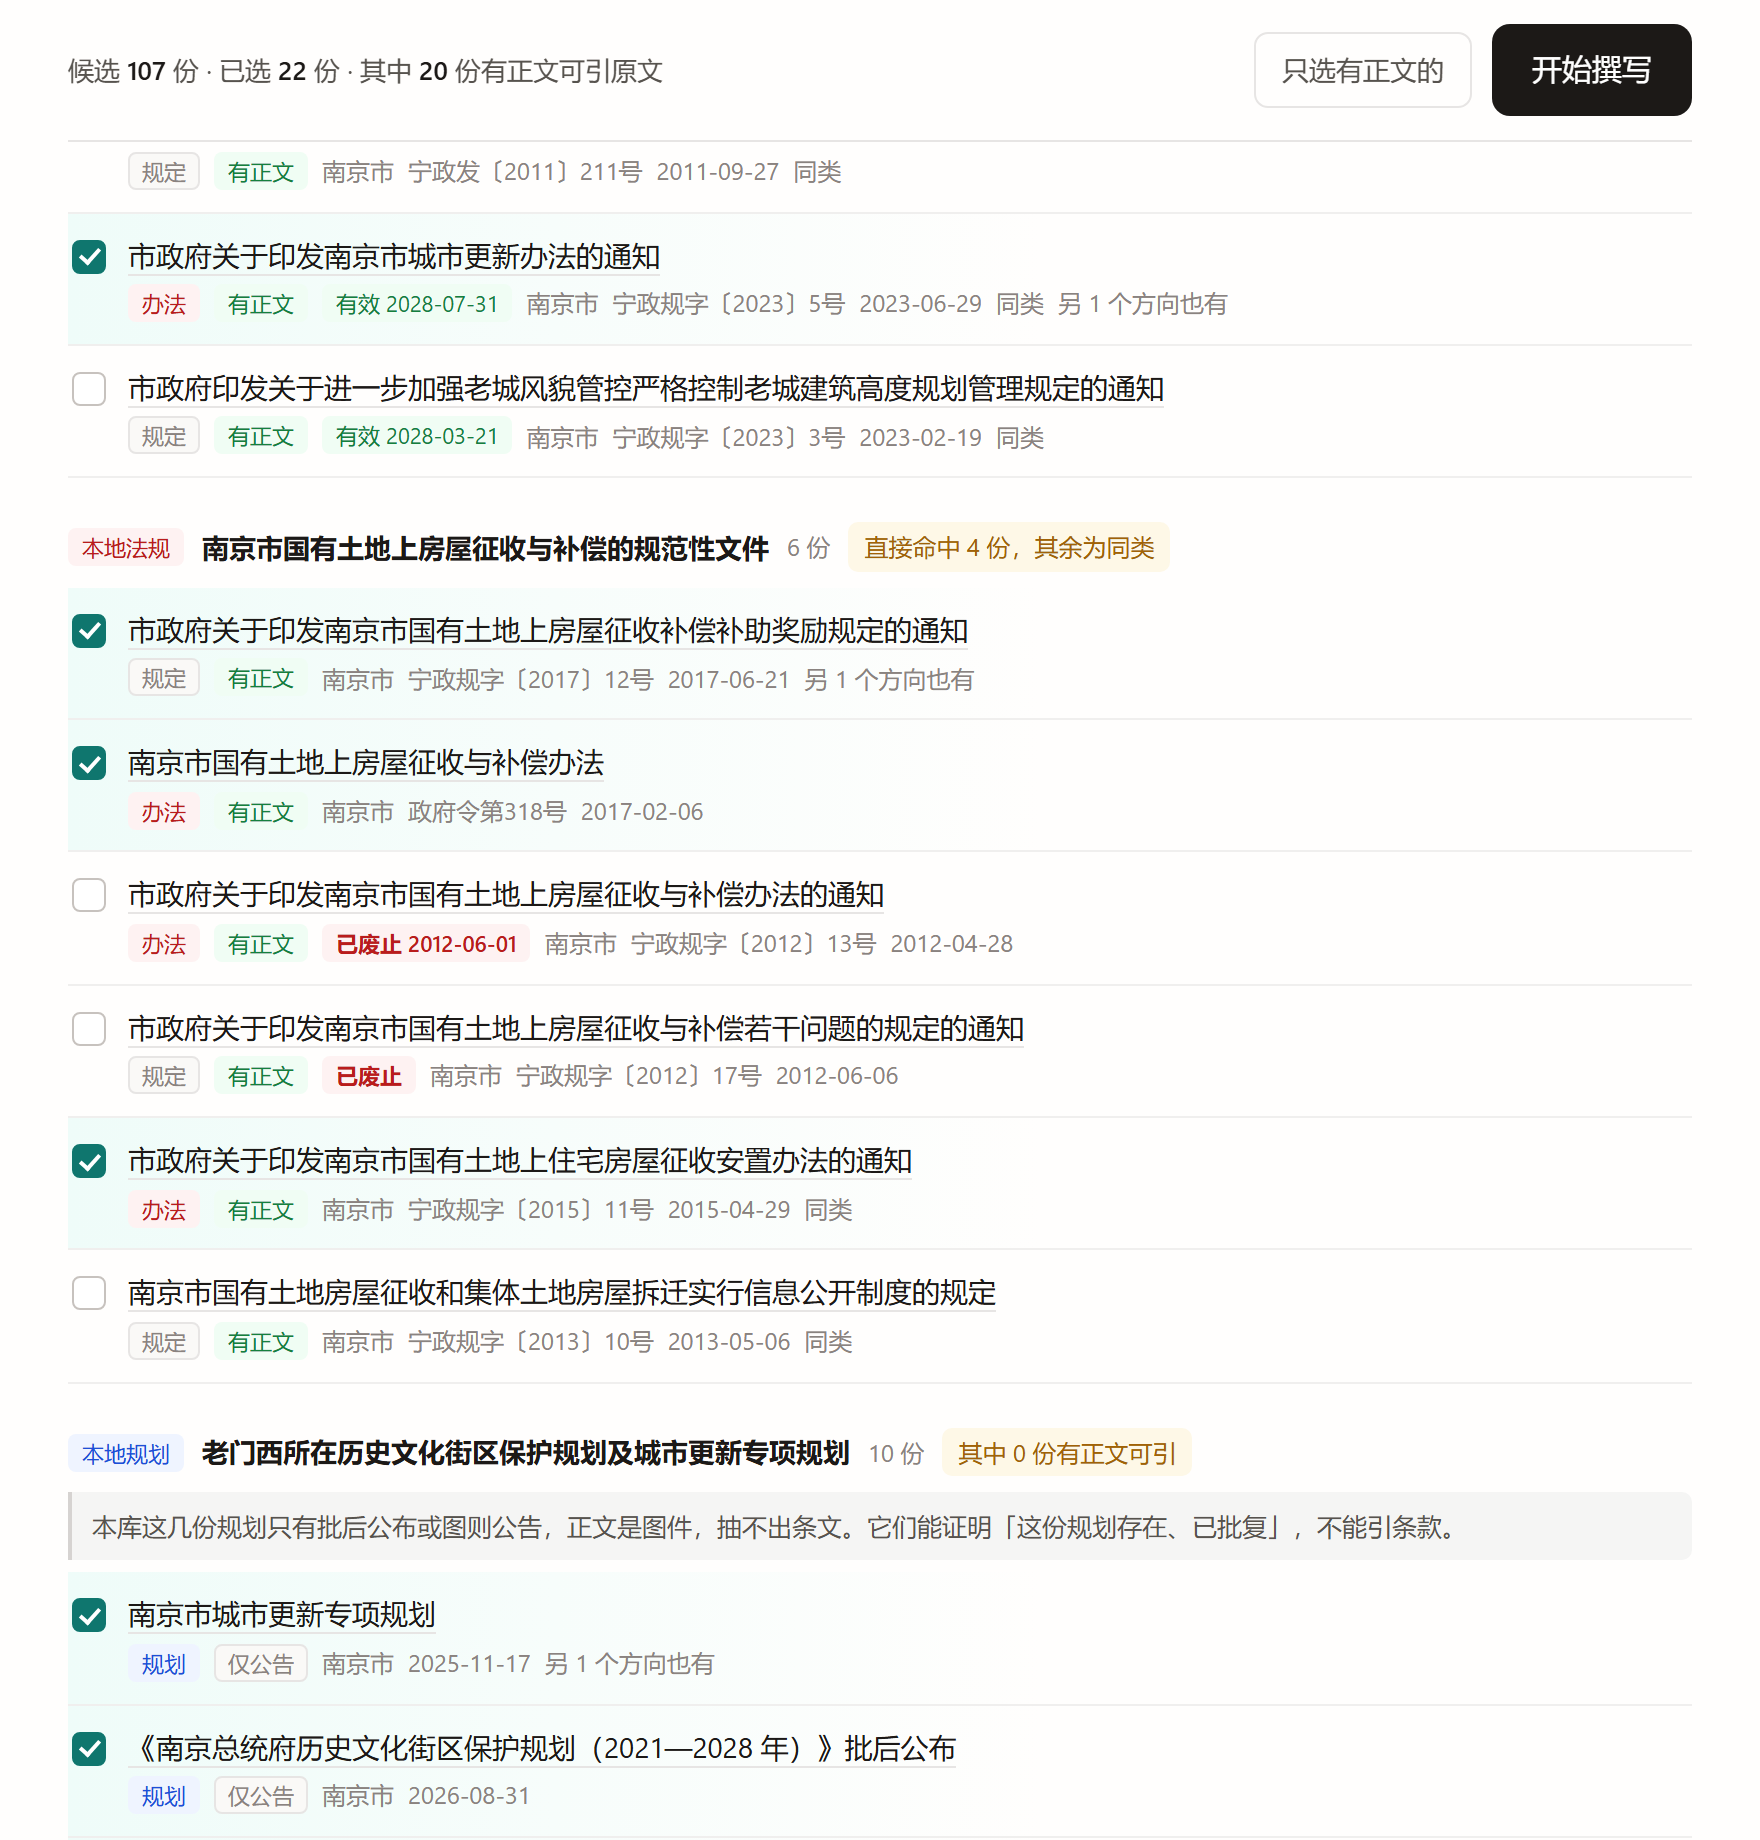
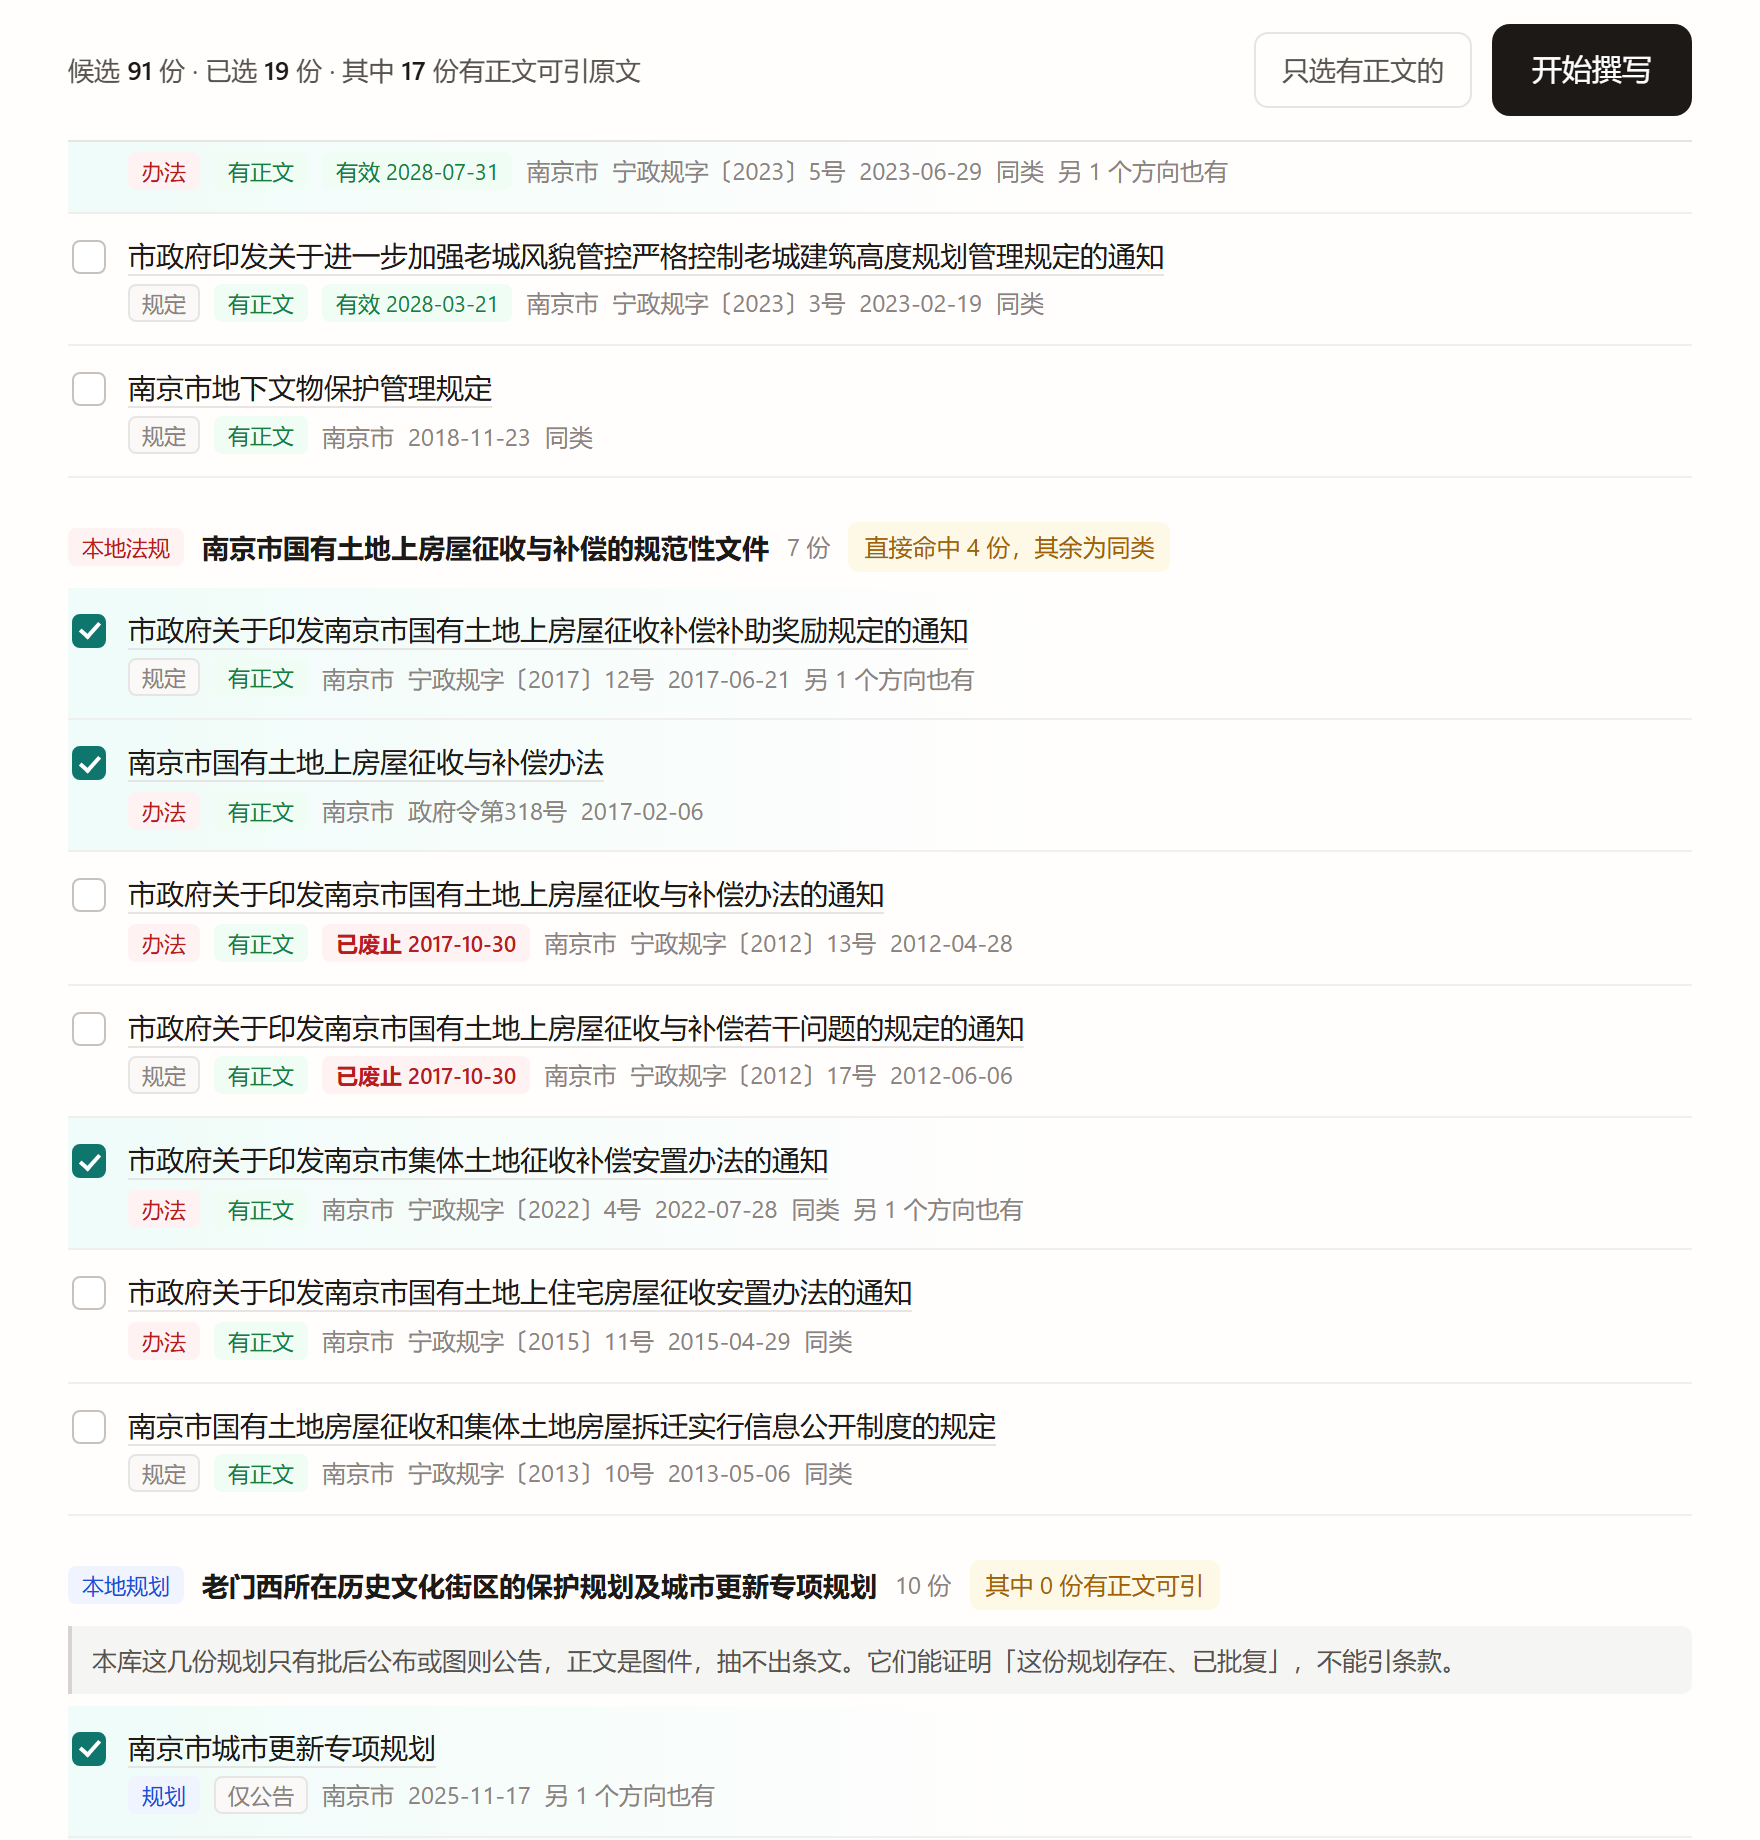
修一个显示 bug：已废止的文件，后面跟的是它的施行日
《市政府关于印发南京市国有土地上房屋征收与补偿办法的通知》
  2012-06-01 施行，2017-10-30 被《南京市人民政府关于修改和废止部分市政府
  规范性文件的决定》第 85 条点名废止。
界面上原来印「已废止 2012-06-01」——差的那五年正好是最需要判断的五年，
读者会以为这份文件 2012 年就废了。

原因：_pack 里一律取「valid_until or effect_on」，而 repealed 的行 valid_until
是空的、effect_on 是施行日，于是回退到了施行日。改成按状态取对应字段：
  repealed  -> repealed_on
  pending   -> effect_on
  expired / in_force -> valid_until
superseded 没有统一日期来源，取不到就留空（856 份 repealed 里有 702 份
没有废止日，界面只显示「已废止」不带日期——不知道就说不知道）。

这个 bug 是写 README 时对图对出来的：图里那行字和台账里查出来的日期对不上。
写文档逼着核数字，比读十遍代码有用。

顺带重截 03-sources.png（现在是「已废止 2017-10-30」），
README 里那句话的候选/勾选/有正文三个数跟着新图改成 91 / 19 / 17，
并注明这几个数每次问会浮动。

diff --git a/app/gather.py b/app/gather.py
@@ -221,7 +221,7 @@ class BodyIndex:
                                "FROM fulltext WHERE status='ok'"):
                 self.by_title.setdefault(norm_title(r["title"]), r["key"])
                 self.by_key[r["key"]] = dict(r)
-            for r in c.execute("SELECT key,status,valid_until,effect_on "
+            for r in c.execute("SELECT key,status,valid_until,effect_on,repealed_on "
                                "FROM eff_ledger"):
                 self.eff[r["key"]] = dict(r)
             c.close()
@@ -515,8 +515,28 @@ def _pack(it: dict, bidx: BodyIndex) -> dict:
     e = bidx.eff.get(bk) if bk else None
     if e and e.get("status") and e["status"] != "no_signal":
         it["eff"] = e["status"]
-        it["eff_date"] = e.get("valid_until") or e.get("effect_on") or ""
+        it["eff_date"] = _eff_date(e)
     return it
+
+
+def _eff_date(e: dict) -> str:
+    """界面上跟在这个状态词后面的那个日期，必须跟状态对得上。
+
+    原来一律取 valid_until or effect_on，于是 repealed 的文件显示的是它的
+    **施行日**：《市政府关于印发南京市国有土地上房屋征收与补偿办法的通知》
+    2012-06-01 施行、2017-10-30 废止，界面上印「已废止 2012-06-01」——
+    差的这五年正好是最需要判断的那五年。日期和状态词对不上，比不给日期更糟：
+    读者会以为这份文件 2012 年就废了。
+    """
+    st = e.get("status") or ""
+    if st == "repealed":
+        return e.get("repealed_on") or ""
+    if st == "pending":
+        return e.get("effect_on") or ""
+    if st in ("expired", "in_force"):
+        return e.get("valid_until") or ""
+    # superseded 没有统一日期的来源，有到期日就用到期日，否则留空。
+    return e.get("valid_until") or ""
 
 
 def _query_catalog(cat: sqlite3.Connection, bidx: BodyIndex, task: dict,

diff --git a/README.md b/README.md
@@ -80,13 +80,18 @@
 
 ![依据清单](docs/screenshots/03-sources.png)
 
-- 候选 107 份，默认勾了 22 份，其中 20 份有正文可引原文。勾选可以逐个改。
-- 第三分组里，《南京市国有土地上房屋征收与补偿办法》（政府令第318号，2017）是现行的，
-  勾着；它上面那份 2012 年的同名通知标着**已废止 2012-06-01**，没勾。
-  **同一件事的两个版本躺在同一屏里，旧的那个被标红了。** 没有这一列的话，
-  两份文件的标题都叫「南京市国有土地上房屋征收与补偿办法」，你只能靠发文年份自己猜哪份算数。
-- 第四分组「老门西所在历史文化街区保护规划」标着「其中 0 份有正文可引」，
-  还写了原因：这批文件只有批后公布和图则公告，正文是图件，抽不出条文，
+- 候选 91 份，默认勾了 19 份，其中 17 份有正文可引原文。勾选可以逐个改。
+  （这三个数每次问会浮动——模型拆方向的粒度不完全固定。）
+- 「南京市国有土地上房屋征收与补偿的规范性文件」这个分组里，《南京市国有土地上房屋征收与补偿办法》
+  （政府令第318号，2017-02-06）是现行的，勾着；它上面那份 2012 年的同名通知标着
+  **已废止 2017-10-30**，没勾。**同一件事的两个版本躺在同一屏里，旧的那个被标红了。**
+  没有这一列的话，两份文件的标题都叫「南京市国有土地上房屋征收与补偿办法」，
+  你只能靠发文年份自己猜哪份算数。那一组里还有第二份同样被标红的（2012 年的「若干问题的规定」）。
+- 废止依据也查得到：《南京市人民政府关于修改和废止部分市政府规范性文件的决定》第 85 条
+  「废止《市政府关于印发南京市国有土地上房屋征收与补偿办法的通知》」。
+  **台账里存的是这条原文片段，不是一句「已失效」。** 站不站得住，最终要看这句话。
+- 「老门西所在历史文化街区保护规划」那个分组标着「其中 0 份有正文可引」，还写了原因：
+  这批文件只有批后公布和图则公告，正文是图件，抽不出条文，
   **能证明规划已批复，不能引条款**。
 
 「只有目录」和「有正文」是两个不同的东西，界面从不混着说。
